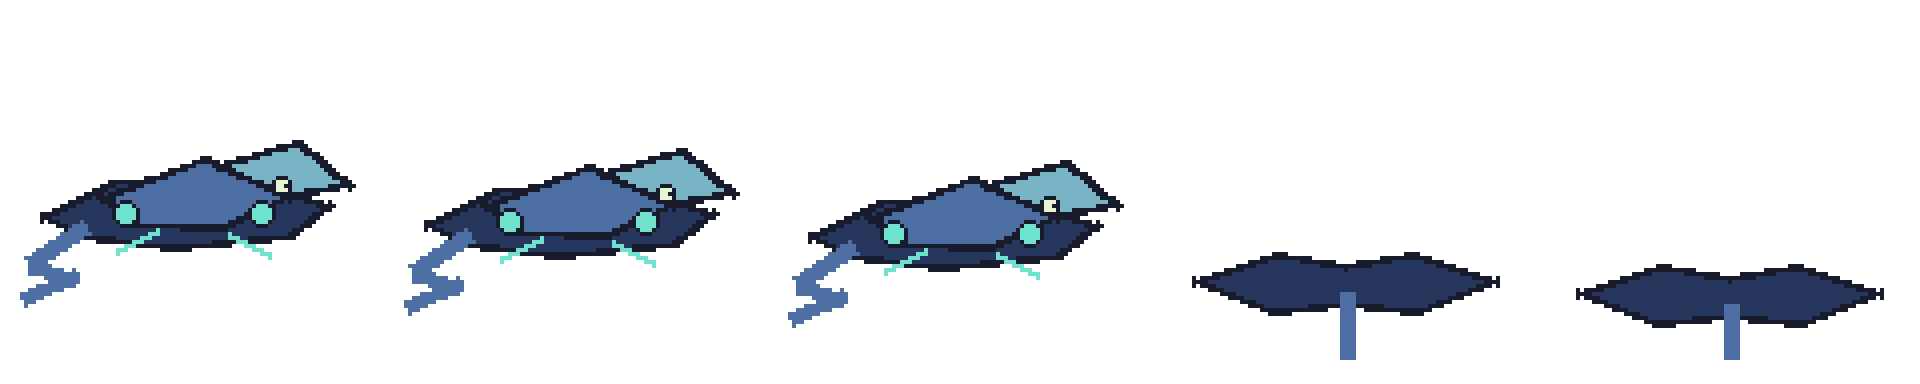
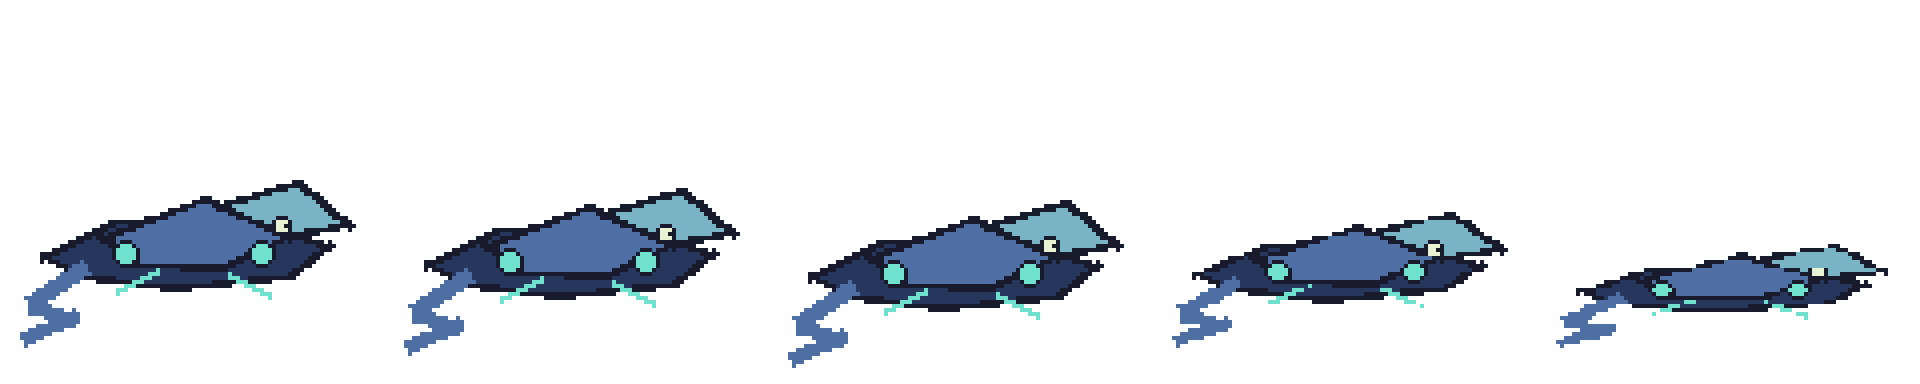
art: refine Skimray and Tidesteed animations

diff --git a/game/assets/arcane/b38c-reef-mounts/CODEX-TO-CLAUDE.md b/game/assets/arcane/b38c-reef-mounts/CODEX-TO-CLAUDE.md
@@ -1,7 +1,5 @@
-# Codex -> Claude — B38c Reef Mounts
+# Codex -> Claude — B38c reef mount revision
 
-Branch: `codex/b38c-reef-mounts`
+`codex/b38c-reef-mount-revision` revises the existing B38c pack in place. Skimray's neutral right-facing pose now ends on its anchor, with the same vertical correction applied to the saddle and rider seat. Tidesteed has a taller silhouette and a higher face in the down view. Both collapse sequences retain the body shape in the last two frames. All IDs, 384 px cell sizes, action lengths and 10 fps death timing are preserved.
 
-Delivers Tidesteed and Skimray as two complete L-size reef mounts: 14 body strips and six saddle overlays each, 40 strips total, with 384 px cells and per-frame seat coordinates. Intake passed with 0 blockers and 0 warnings. The contact sheet plus attack, movement and death strips were visually reviewed; ZIP integrity, manifest dimensions, strip counts and seat-array lengths were verified.
-
-Known gaps: rider layering and seat placement need an in-game check, especially the Tidesteed down view and the Skimray's wide wings. Their death transitions become flat over the final two poses. Glowjelly is the next unfinished B38 species after this mount priority.
+All 40 strips passed intake with zero blockers and warnings. Please recheck mounted turns, down-facing rider overlap, and the death timing in-game. Fin Raider's fin silhouette is still open.
